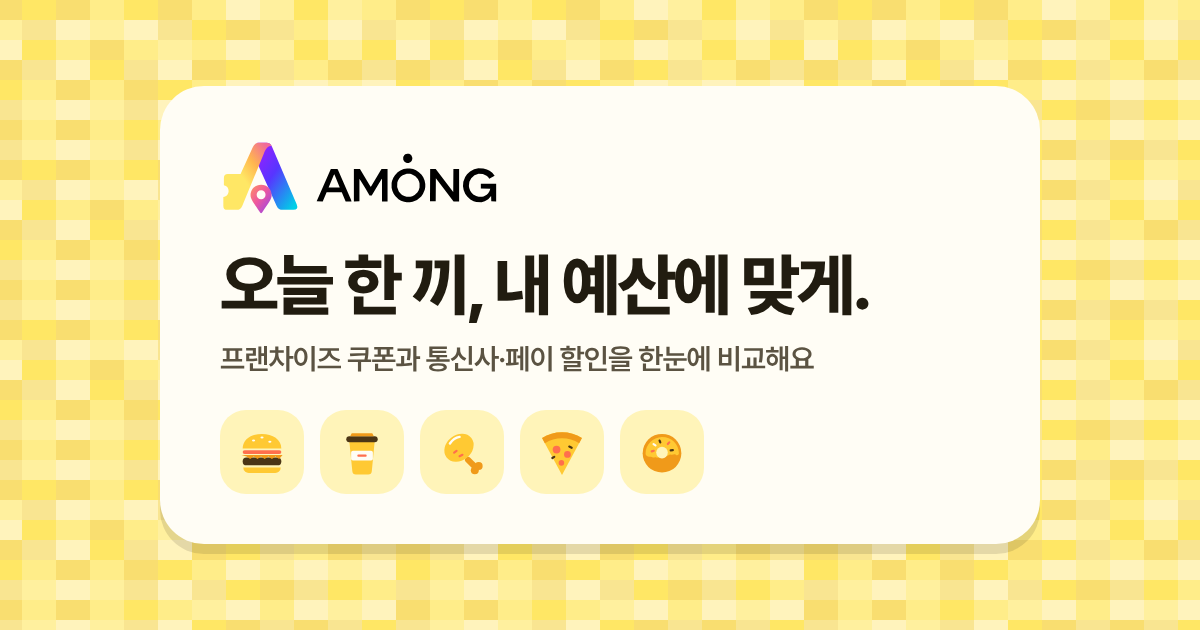
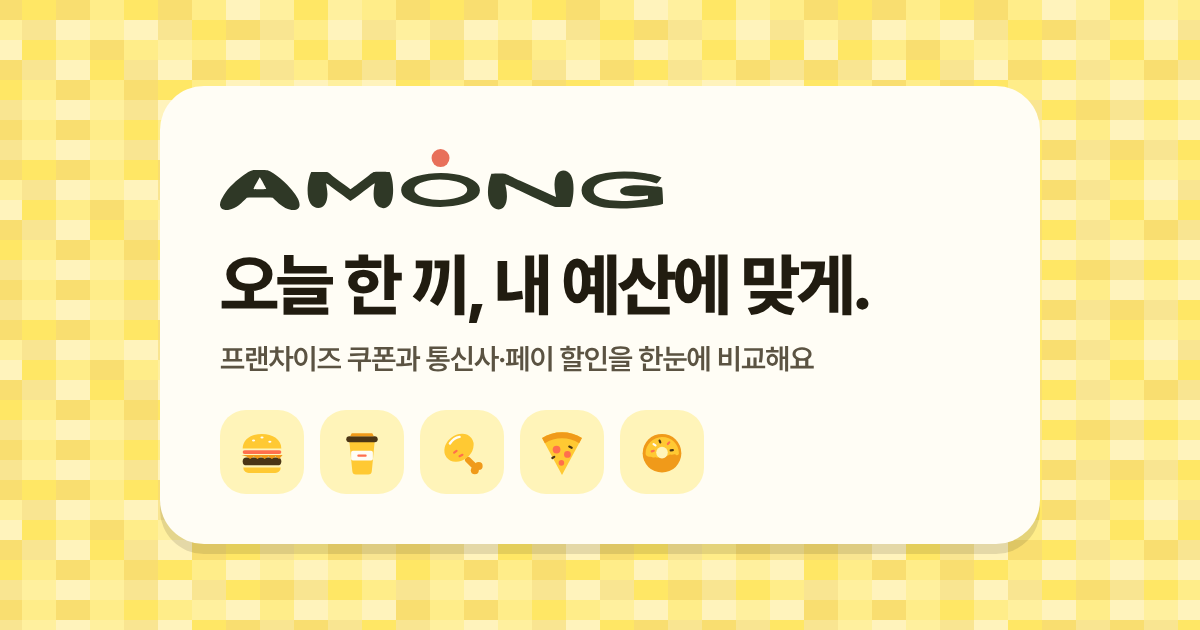
feat: new AMONG wordmark (owner's typeface, coral dot above the O)
- Vector trace of the owner's vertical logo; horizontal version uses the same letters with the dot above O
- Light/dark files swapped by theme (no invert filter, the coral dot keeps its colour); old A symbol leaves the header
- Share preview image regenerated

Claude-Session: https://claude.ai/code/session_01PRcnf8A8LkB7HhFABPqSU5

Changed region(s): [[0.185, 0.2111, 0.555, 0.3317]]

diff --git a/web/sw.js b/web/sw.js
@@ -1,8 +1,8 @@
 // HTML·설정은 최신 사본 우선. 버전이 고정된 모듈·로고만 캐시 우선. 쿠폰 API는 저장하지 않는다.
-const CACHE = 'among-shell-v84';
-const SHELL = ['./', 'index.html', 'home.css?v=20261113-1', 'launch.css?v=20261112-1', 'fonts.css?v=20261107-3', 'brand.css?v=20261107-4', 'among-logo.svg?v=20261107-4', 'among-symbol.svg?v=20261107-4', 'banana-bricks.svg', 'banana-bricks-dark.svg', 'app.js?v=20261121-1', 'engine.js?v=20261119-2', 'product-images.js?v=20261104-3', 'notice-images.js?v=20261114-3', 'verified-news.js?v=20261029-8', 'verified-events.js?v=20261121-1', 'event-notices.js?v=20261119-1', 'artwork-meta.js?v=20261114-1', 'brand-logos.js?v=20261103-1', 'app-coupons.js?v=20261029-8', 'app-coupon-ui.js?v=20261103-1', 'app-coupons.css?v=20261107-3', 'config.js', 'manifest.webmanifest', 'icon-192.png', 'hot-notices.css?v=20261114-4'];
+const CACHE = 'among-shell-v85';
+const SHELL = ['./', 'index.html', 'home.css?v=20261113-1', 'launch.css?v=20261121-1', 'fonts.css?v=20261107-3', 'brand.css?v=20261121-1', 'among-logo.svg?v=20261121-1', 'among-logo-dark.svg?v=20261121-1', 'banana-bricks.svg', 'banana-bricks-dark.svg', 'app.js?v=20261121-1', 'engine.js?v=20261119-2', 'product-images.js?v=20261104-3', 'notice-images.js?v=20261114-3', 'verified-news.js?v=20261029-8', 'verified-events.js?v=20261121-1', 'event-notices.js?v=20261119-1', 'artwork-meta.js?v=20261114-1', 'brand-logos.js?v=20261103-1', 'app-coupons.js?v=20261029-8', 'app-coupon-ui.js?v=20261103-1', 'app-coupons.css?v=20261107-3', 'config.js', 'manifest.webmanifest', 'icon-192.png', 'hot-notices.css?v=20261114-4'];
 // 온라인 특가 코드·스타일은 첫 방문 때만 저장하며 상품 응답(Apps Script·JSON)은 캐시하지 않는다.
-const ASSETS = new Set(['home.css', 'fonts.css', 'fonts/PretendardVariable.woff2', 'brand.css', 'among-logo.svg', 'among-symbol.svg', 'banana-bricks.svg', 'banana-bricks-dark.svg', 'online-deals.js', 'online-deals-core.js', 'online-deals.css', 'app-coupons.js', 'app-coupon-ui.js', 'app-coupons.css', '', 'index.html', 'app.js', 'engine.js', 'product-images.js', 'notice-images.js', 'verified-news.js', 'verified-events.js', 'event-notices.js', 'artwork-meta.js', 'brand-logos.js', 'config.js', 'manifest.webmanifest',
+const ASSETS = new Set(['home.css', 'fonts.css', 'fonts/PretendardVariable.woff2', 'brand.css', 'among-logo.svg', 'among-logo-dark.svg', 'among-symbol.svg', 'banana-bricks.svg', 'banana-bricks-dark.svg', 'online-deals.js', 'online-deals-core.js', 'online-deals.css', 'app-coupons.js', 'app-coupon-ui.js', 'app-coupons.css', '', 'index.html', 'app.js', 'engine.js', 'product-images.js', 'notice-images.js', 'verified-news.js', 'verified-events.js', 'event-notices.js', 'artwork-meta.js', 'brand-logos.js', 'config.js', 'manifest.webmanifest',
   'hot-notices.css', 'partners.html', 'sponsor.js', 'launch.css', 'guide-calculator.js', 'about.html', 'guide.html', 'privacy.html', 'terms.html', 'doc.js', 'doc.css', 'story.css', 'story.js',
   'icon-32.png', 'icon-64.png', 'icon-192.png', 'icon-512.png', 'icon-maskable-512.png', 'apple-touch-icon.png']);
 

diff --git a/web/index.html b/web/index.html
@@ -15,11 +15,11 @@
 <link rel="icon" href="icon-64.png?v=20261107-3" type="image/png">
 <link rel="apple-touch-icon" href="apple-touch-icon.png?v=20261107-3">
 <link rel="stylesheet" href="fonts.css?v=20261107-3">
-<link rel="stylesheet" href="brand.css?v=20261107-4">
+<link rel="stylesheet" href="brand.css?v=20261121-1">
 <script src="config.js"></script>
 <link rel="stylesheet" href="home.css?v=20261113-1">
 <link rel="stylesheet" href="app-coupons.css?v=20261107-3">
-<link rel="stylesheet" href="launch.css?v=20261112-1">
+<link rel="stylesheet" href="launch.css?v=20261121-1">
 <link rel="stylesheet" href="hot-notices.css?v=20261114-4">
 <!-- deploy-meta -->
 <link rel="canonical" href="https://olsd0.github.io/among/">
@@ -37,7 +37,7 @@
 <div class="shell">
   <header class="top">
     <div class="bar">
-      <a class="logo brand-lockup" href="./" aria-label="AMONG 처음으로"><img class="brand-symbol" src="among-symbol.svg?v=20261107-4" alt="" width="36" height="34"><img class="wordmark" src="among-logo.svg?v=20261107-4" alt="AMONG" width="100" height="28"></a>
+      <a class="logo brand-lockup" href="./" aria-label="AMONG 처음으로"><img class="wordmark wm-light" src="among-logo.svg?v=20261121-1" alt="AMONG" width="180" height="26"><img class="wordmark wm-dark" src="among-logo-dark.svg?v=20261121-1" alt="AMONG" width="180" height="26"></a>
       <span class="sp"></span>
       <button class="icon-btn" id="searchBtn" aria-label="메뉴 검색" aria-expanded="false">
         <svg width="24" height="24" viewBox="0 0 24 24" fill="none" stroke="currentColor" stroke-width="2" stroke-linecap="round"><circle cx="11" cy="11" r="7"/><path d="m20 20-3.5-3.5"/></svg>

diff --git a/web/brand.css b/web/brand.css
@@ -11,17 +11,15 @@
 }
 :root[data-theme="dark"] { --primary-label: var(--primary); --primary-soft: #383018; }
 
-/* Keep both halves legible on the page surface, including an explicitly selected theme. */
-.brand-lockup {
-  display: inline-flex;
-  align-items: center;
-  gap: 7px;
-  vertical-align: middle;
-  flex: none;
-}
-.brand-lockup .brand-symbol { display: block; width: 36px; height: 34px; }
-.brand-lockup .wordmark { display: block; width: 100px; height: auto; }
+/* 11/21 대표 요청: 새 글자 로고(첨부 글씨체, O 위 산호색 점). 밝은 화면·어두운 화면용 파일을 따로 두고 테마에 맞는 것만 보인다
+ * (예전처럼 invert 필터를 쓰면 산호색 점이 청록색이 됨). 예전 A 심볼은 머리글에서 뺐다 — 아이콘·파비콘은 그대로 */
+.brand-lockup { display: inline-flex; align-items: center; vertical-align: middle; flex: none; }
+.brand-lockup .wordmark { display: block; height: 26px; width: auto; }
+.brand-lockup .wm-dark { display: none; }
 @media (prefers-color-scheme: dark) {
-  :root:not([data-theme="light"]) .brand-lockup .wordmark { filter: invert(1); }
+  :root:not([data-theme="light"]) .brand-lockup .wm-light { display: none; }
+  :root:not([data-theme="light"]) .brand-lockup .wm-dark { display: block; }
 }
-:root[data-theme="dark"] .brand-lockup .wordmark { filter: invert(1); }
+:root[data-theme="dark"] .brand-lockup .wm-light { display: none; }
+:root[data-theme="dark"] .brand-lockup .wm-dark { display: block; }
+@media (max-width: 380px) { .brand-lockup .wordmark { height: 22px; } }

diff --git a/web/admin.html b/web/admin.html
@@ -8,7 +8,7 @@
 <meta name="referrer" content="no-referrer">
 <title>AMONG 관리 · 앱 전용 쿠폰 · 온라인 특가 · 지표</title>
 <link rel="stylesheet" href="fonts.css?v=20261107-3">
-<link rel="stylesheet" href="brand.css?v=20261107-4">
+<link rel="stylesheet" href="brand.css?v=20261121-1">
 <link rel="stylesheet" href="app-coupons.css?v=20261107-3">
 <link rel="stylesheet" href="app-coupon-admin.css?v=20261107-4">
 <link rel="stylesheet" href="online-admin.css?v=20261107-4">
@@ -19,7 +19,7 @@
 <body>
 <div class="wrap" hidden>
   <header>
-    <h1><span class="brand-lockup"><img class="brand-symbol" src="among-symbol.svg?v=20261107-4" alt="" width="36" height="34"><img class="wordmark" src="among-logo.svg?v=20261107-4" alt="AMONG" width="100" height="28"></span> 관리</h1>
+    <h1><span class="brand-lockup"><img class="wordmark wm-light" src="among-logo.svg?v=20261121-1" alt="AMONG" width="180" height="26"><img class="wordmark wm-dark" src="among-logo-dark.svg?v=20261121-1" alt="AMONG" width="180" height="26"></span> 관리</h1>
     <form class="ctrl" id="authForm">
       <label class="muted" for="token">관리 토큰</label>
       <input id="token" type="password" autocomplete="off" placeholder="ADMIN_TOKEN" size="18">

diff --git a/web/about.html b/web/about.html
@@ -12,7 +12,7 @@
 <meta name="theme-color" content="#ffe765">
 <link rel="icon" href="icon-64.png?v=20261107-3" type="image/png">
 <link rel="stylesheet" href="fonts.css?v=20261107-3">
-<link rel="stylesheet" href="brand.css?v=20261107-4">
+<link rel="stylesheet" href="brand.css?v=20261121-1">
 <link rel="stylesheet" href="doc.css?v=20261107-4">
 <link rel="stylesheet" href="story.css?v=20261121-1">
 <script src="config.js"></script>
@@ -28,7 +28,7 @@
 </head>
 <body>
 <header class="top"><div class="top-in">
-  <a class="brand brand-lockup" href="./"><img class="brand-symbol" src="among-symbol.svg?v=20261107-4" alt="" width="36" height="34"><img class="wordmark" src="among-logo.svg?v=20261107-4" alt="AMONG" width="100" height="28"></a>
+  <a class="brand brand-lockup" href="./"><img class="wordmark wm-light" src="among-logo.svg?v=20261121-1" alt="AMONG" width="180" height="26"><img class="wordmark wm-dark" src="among-logo-dark.svg?v=20261121-1" alt="AMONG" width="180" height="26"></a>
   <nav aria-label="안내 페이지"><a href="guide.html">가이드</a><a href="about.html" aria-current="page">소개</a><a href="privacy.html">개인정보</a><a href="terms.html">약관</a></nav>
 </div></header>
 

diff --git a/web/guide.html b/web/guide.html
@@ -12,7 +12,7 @@
 <meta name="theme-color" content="#ffe765">
 <link rel="icon" href="icon-64.png?v=20261107-3" type="image/png">
 <link rel="stylesheet" href="fonts.css?v=20261107-3">
-<link rel="stylesheet" href="brand.css?v=20261107-4">
+<link rel="stylesheet" href="brand.css?v=20261121-1">
 <link rel="stylesheet" href="doc.css?v=20261108-1">
 <link rel="stylesheet" href="story.css?v=20261121-1">
 <script src="config.js"></script>
@@ -29,7 +29,7 @@
 </head>
 <body>
 <header class="top"><div class="top-in">
-  <a class="brand brand-lockup" href="./"><img class="brand-symbol" src="among-symbol.svg?v=20261107-4" alt="" width="36" height="34"><img class="wordmark" src="among-logo.svg?v=20261107-4" alt="AMONG" width="100" height="28"></a>
+  <a class="brand brand-lockup" href="./"><img class="wordmark wm-light" src="among-logo.svg?v=20261121-1" alt="AMONG" width="180" height="26"><img class="wordmark wm-dark" src="among-logo-dark.svg?v=20261121-1" alt="AMONG" width="180" height="26"></a>
   <nav aria-label="안내 페이지"><a href="guide.html" aria-current="page">가이드</a><a href="about.html">소개</a><a href="privacy.html">개인정보</a><a href="terms.html">약관</a></nav>
 </div></header>
 

diff --git a/web/privacy.html b/web/privacy.html
@@ -10,7 +10,7 @@
 <meta name="theme-color" content="#ffe765">
 <link rel="icon" href="icon-64.png?v=20261107-3" type="image/png">
 <link rel="stylesheet" href="fonts.css?v=20261107-3">
-<link rel="stylesheet" href="brand.css?v=20261107-4">
+<link rel="stylesheet" href="brand.css?v=20261121-1">
 <link rel="stylesheet" href="doc.css?v=20261107-4">
 <script src="config.js"></script>
 <script src="doc.js" defer></script>
@@ -24,7 +24,7 @@
 </head>
 <body>
 <header class="top"><div class="top-in">
-  <a class="brand brand-lockup" href="./"><img class="brand-symbol" src="among-symbol.svg?v=20261107-4" alt="" width="36" height="34"><img class="wordmark" src="among-logo.svg?v=20261107-4" alt="AMONG" width="100" height="28"></a>
+  <a class="brand brand-lockup" href="./"><img class="wordmark wm-light" src="among-logo.svg?v=20261121-1" alt="AMONG" width="180" height="26"><img class="wordmark wm-dark" src="among-logo-dark.svg?v=20261121-1" alt="AMONG" width="180" height="26"></a>
   <nav aria-label="안내 페이지"><a href="guide.html">가이드</a><a href="about.html">소개</a><a href="privacy.html" aria-current="page">개인정보</a><a href="terms.html">약관</a></nav>
 </div></header>
 

diff --git a/web/terms.html b/web/terms.html
@@ -10,7 +10,7 @@
 <meta name="theme-color" content="#ffe765">
 <link rel="icon" href="icon-64.png?v=20261107-3" type="image/png">
 <link rel="stylesheet" href="fonts.css?v=20261107-3">
-<link rel="stylesheet" href="brand.css?v=20261107-4">
+<link rel="stylesheet" href="brand.css?v=20261121-1">
 <link rel="stylesheet" href="doc.css?v=20261107-4">
 <script src="config.js"></script>
 <script src="doc.js" defer></script>
@@ -24,7 +24,7 @@
 </head>
 <body>
 <header class="top"><div class="top-in">
-  <a class="brand brand-lockup" href="./"><img class="brand-symbol" src="among-symbol.svg?v=20261107-4" alt="" width="36" height="34"><img class="wordmark" src="among-logo.svg?v=20261107-4" alt="AMONG" width="100" height="28"></a>
+  <a class="brand brand-lockup" href="./"><img class="wordmark wm-light" src="among-logo.svg?v=20261121-1" alt="AMONG" width="180" height="26"><img class="wordmark wm-dark" src="among-logo-dark.svg?v=20261121-1" alt="AMONG" width="180" height="26"></a>
   <nav aria-label="안내 페이지"><a href="guide.html">가이드</a><a href="about.html">소개</a><a href="privacy.html">개인정보</a><a href="terms.html" aria-current="page">약관</a></nav>
 </div></header>
 

diff --git a/web/partners.html b/web/partners.html
@@ -12,7 +12,7 @@
 <meta name="theme-color" content="#ffe765">
 <link rel="icon" href="icon-64.png?v=20261107-3" type="image/png">
 <link rel="stylesheet" href="fonts.css?v=20261107-3">
-<link rel="stylesheet" href="brand.css?v=20261107-4">
+<link rel="stylesheet" href="brand.css?v=20261121-1">
 <link rel="stylesheet" href="doc.css?v=20261107-4">
 <script src="config.js"></script>
 <script src="doc.js" defer></script>
@@ -26,7 +26,7 @@
 </head>
 <body>
 <header class="top"><div class="top-in">
-  <a class="brand brand-lockup" href="./"><img class="brand-symbol" src="among-symbol.svg?v=20261107-4" alt="" width="36" height="34"><img class="wordmark" src="among-logo.svg?v=20261107-4" alt="AMONG" width="100" height="28"></a>
+  <a class="brand brand-lockup" href="./"><img class="wordmark wm-light" src="among-logo.svg?v=20261121-1" alt="AMONG" width="180" height="26"><img class="wordmark wm-dark" src="among-logo-dark.svg?v=20261121-1" alt="AMONG" width="180" height="26"></a>
   <nav aria-label="안내 페이지"><a href="guide.html">가이드</a><a href="about.html">소개</a><a href="privacy.html">개인정보</a><a href="terms.html">약관</a></nav>
 </div></header>
 

diff --git a/web/404.html b/web/404.html
@@ -12,12 +12,12 @@
      /a/b 같은 깊은 주소에서도 열리도록 파일 주소는 / 로 시작한다. -->
 <link rel="icon" href="/icon-64.png?v=20261107-3" type="image/png">
 <link rel="stylesheet" href="/fonts.css?v=20261107-3">
-<link rel="stylesheet" href="/brand.css?v=20261107-4">
+<link rel="stylesheet" href="/brand.css?v=20261121-1">
 <link rel="stylesheet" href="/doc.css?v=20261107-4">
 </head>
 <body>
 <header class="top"><div class="top-in">
-  <a class="brand brand-lockup" href="/"><img class="brand-symbol" src="/among-symbol.svg?v=20261107-4" alt="" width="36" height="34"><img class="wordmark" src="/among-logo.svg?v=20261107-4" alt="AMONG" width="100" height="28"></a>
+  <a class="brand brand-lockup" href="/"><img class="wordmark wm-light" src="/among-logo.svg?v=20261121-1" alt="AMONG" width="180" height="26"><img class="wordmark wm-dark" src="/among-logo-dark.svg?v=20261121-1" alt="AMONG" width="180" height="26"></a>
   <nav aria-label="안내 페이지"><a href="/guide">가이드</a><a href="/about">소개</a><a href="/privacy">개인정보</a><a href="/terms">약관</a></nav>
 </div></header>
 

diff --git a/web/launch.css b/web/launch.css
@@ -72,7 +72,6 @@ body { background: linear-gradient(160deg, color-mix(in srgb, var(--primary-soft
   --hd-on: var(--primary); --hd-on-ink: var(--primary-ink); --hd-line: var(--line); --hd-symbol: none; --hd-tile: url("banana-bricks-dark.svg");
 }
 header.top { background: var(--hd-bricks) repeat center top / 204px 80px; }
-header.top .brand-symbol { filter: var(--hd-symbol); }
 header.top .icon-btn { color: var(--hd-ink); }
 header.top .icon-btn:hover, header.top .icon-btn[aria-expanded="true"] { background: var(--hd-glass); }
 header.top .me-pill { background: var(--hd-pill); border-color: var(--hd-pill-line); color: var(--hd-pill-ink); }
